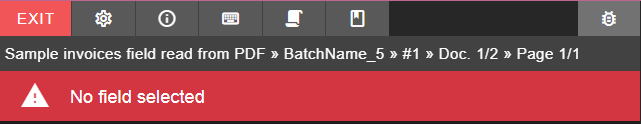
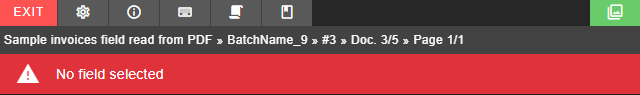
new release notes and new thumbs viewer docs

diff --git a/index.html b/index.html
@@ -103,6 +103,12 @@
     }
     /**/
     /* Mine */
+    .text-center {
+      text-align: center;
+    }
+    .centered {
+      margin: 0 auto !important;
+    }
     .beta_chip {
       margin-left: 4px; color: #ff4081;
       border: 1px solid #ff4081;

diff --git a/documentation/chronolite/indexer/form/toolbar/index.md b/documentation/chronolite/indexer/form/toolbar/index.md
@@ -9,12 +9,13 @@ Located on on top of the form fields.
 
 First row: Buttons.
 
-* <span style="background:red; color: white; padding: 2px 4px; border-radius: 2px;">EXIT</span> Exit back to dashboard.
-* <i class="mdi mdi-cog"></i> [Indexer settings](./../../../../documentation/chronolite/indexer/indexer-settings/index).
-* <i class="mdi mdi-information-outline"></i> Indexer information.
-* <i class="mdi mdi-keyboard-outline"></i> Indexer keyboard shortcuts.
-* <i class="mdi mdi-script"></i> Scripts log.
-* <i class="mdi mdi-book-outline"></i> Indexer documentation.
+* <span style="background:red; color: white; padding: 2px 4px; border-radius: 2px;">EXIT</span> Exit back to dashboard
+* <i class="mdi mdi-cog"></i> [Indexer settings](./../../../../documentation/chronolite/indexer/indexer-settings/index)
+* <i class="mdi mdi-information-outline"></i> Indexer information
+* <i class="mdi mdi-keyboard-outline"></i> Indexer keyboard shortcuts
+* <i class="mdi mdi-script"></i> Scripts log
+* <i class="mdi mdi-book-outline"></i> Indexer documentation
+* <i class="mdi mdi mdi-file-document-multiple-outline"></i> Toggle thumb viewer
 
 Second row: Info.
 
@@ -32,9 +33,9 @@ Third row: Field selected information.
 ![Field selected](./../../../../../images/documentation/chronolite/indexer/fieldsel.PNG)  
 <small class="img_caption">Current field selected</small>
 
-* <i class="mdi mdi-close-circle"></i> Deselects current field.
+* <i class="mdi mdi-close-circle"></i> Deselects current field
 * <i class="mdi mdi-calculator" style="color: gold"></i> Calculator*
-> *Calculator is only available for NUMERIC fields.
+> *Calculator is only available for NUMERIC fields
 
 ![Field selected](./../../../../../images/documentation/chronolite/indexer/calculator.PNG)  
 <small class="img_caption">Calculator snapshot</small>

diff --git a/documentation/chronolite/indexer/thumb-viewer/index.md b/documentation/chronolite/indexer/thumb-viewer/index.md
@@ -1,0 +1,41 @@
+
+# Thumb viewer
+
+* The thumb viewer lets you preview and navigate thtough all documents opened on the indexer
+* It is an **optional** widget that can be opened and closed on demand
+* It is composed of three main components
+    * Toolbar
+    * Tabs bar
+    * Image thumbs
+
+!> By default the thumb viewer does not show when entering the indexer for the first time
+
+<img align="center" src="./../../../../images/documentation/chronolite/indexer/thumbviewer_main.jpg" class="centered" width="auto" height="500">  
+
+<small class="img_caption">*Thumbs viewer</small>
+
+
+## Opening and closing the thumb viewer
+
+* The thumb viewer can be opened and closed on the following form view button.
+* It can also be closed on thumb viewer toolbar button <i class="mdi mdi-close" style="color: red;"></i>
+
+<img align="center" src="./../../../../images/documentation/chronolite/indexer/toolbar_w_thumbv.png" class="centered" width="auto" height="auto">  
+
+<small class="img_caption">*Opening/ closing thumb viewer button on form main toolbar</small>
+
+## Toolbar
+
+* <i class="mdi mdi-target"></i> Locates current working document page
+* <i class="mdi mdi-close" style="color: red;"></i> Closes Thumb viewer
+
+## Tabs bar
+
+* <i class="mdi mdi-file-document-outline"></i> It shows only current documents and pages thumbs
+* <i class="mdi mdi-file-document-multiple-outline" style="color: red;"></i> It shows all documents and pages for indexing documents
+
+
+## Thumbs
+
+* It shows the image thumbs of the documents and pages depending on selected tab
+* It shows validation state of documents on page information background color. <span style="color: green;">Green</span> for validated, <span style="color: red;">red</span> for document with errors

diff --git a/documentation/chronolite/indexer/index.md b/documentation/chronolite/indexer/index.md
@@ -3,7 +3,7 @@
 
 The Indexer is the main tool for correcting and indexing documents.
 
-Its divided into two mayor components:
+Its divided into two mayor components plus the thumb viewer:
 
 * [**The form**](./documentation/chronolite/indexer/form/index) <span class="in_magenta">In magenta</span>
     * Form toolbar
@@ -15,6 +15,10 @@ Its divided into two mayor components:
     * Document image
     * Image viewer menu
 
+* [**The thumb viewer**](./documentation/chronolite/indexer/thumb-viewer/index) <span class="in_yellow">In yellow</span>
+    * Toolbar
+    * Tabs
+    * Thumbs
+
 ![Indexer](./../../../images/documentation/chronolite/indexer/indexer.PNG)  
-<small>Indexer <span class="in_magenta">form</span> and <span class="in_lightgreen">image viewer</span>.</small>
 

diff --git a/_sidebar.md b/_sidebar.md
@@ -40,6 +40,7 @@
         * [Field areas](./documentation/chronolite/indexer/image-viewer/field-areas/index) 
         * [Selecting values from the image](./documentation/chronolite/indexer/image-viewer/field-areas/index?id=selecting-values-from-the-image)
         * [Deleting field areas](./documentation/chronolite/indexer/image-viewer/field-areas/index?id=deleting-field-areas)
+      * [Thumb viewer](./documentation/chronolite/indexer/thumb-viewer/index)
       * [Pop-up field form](./documentation/chronolite/indexer/pop-up-field-form/index)
       * [Indexer settings](./documentation/chronolite/indexer/indexer-settings/index)
    * [THEMES](./documentation/chronolite/themes/index)

diff --git a/release-notes/index.md b/release-notes/index.md
@@ -5,6 +5,10 @@
 
 > **Note:** To check your current version installed or if a newer version is avalialable see [**Checking current version**](./documentation/checking-current-version).
 
+* ### v2021.1.1\c18d4d3
+    * Date: 2021/02/10 (BETA)
+    * [**Thumb viewer**](./documentation/chronolite/indexer/thumb-viewer/index) added to the indexer
+
 * ### v2021.1.1\dc9ed35
     * Date: 2021/02/05 (BETA)
     * Upload file limit increased from 128 KB to 500000 KB

diff --git a/documentation/chronolite/indexer/form/document-pagination/index.md b/documentation/chronolite/indexer/form/document-pagination/index.md
@@ -11,3 +11,6 @@ Located at the bottom of the indexer form.
 * **Document [current document]/[total documents] menu**: Go to a specific document.
 * <i class="mdi mdi-chevron-double-right"></i> Go to next document.
 * <i class="mdi mdi-chevron-triple-right"></i> Go to last document.
+
+> **Note** Document and pages navigation can alos be done through [**The thumb viewer**](./documentation/chronolite/indexer/thumb-viewer/index) 
+
